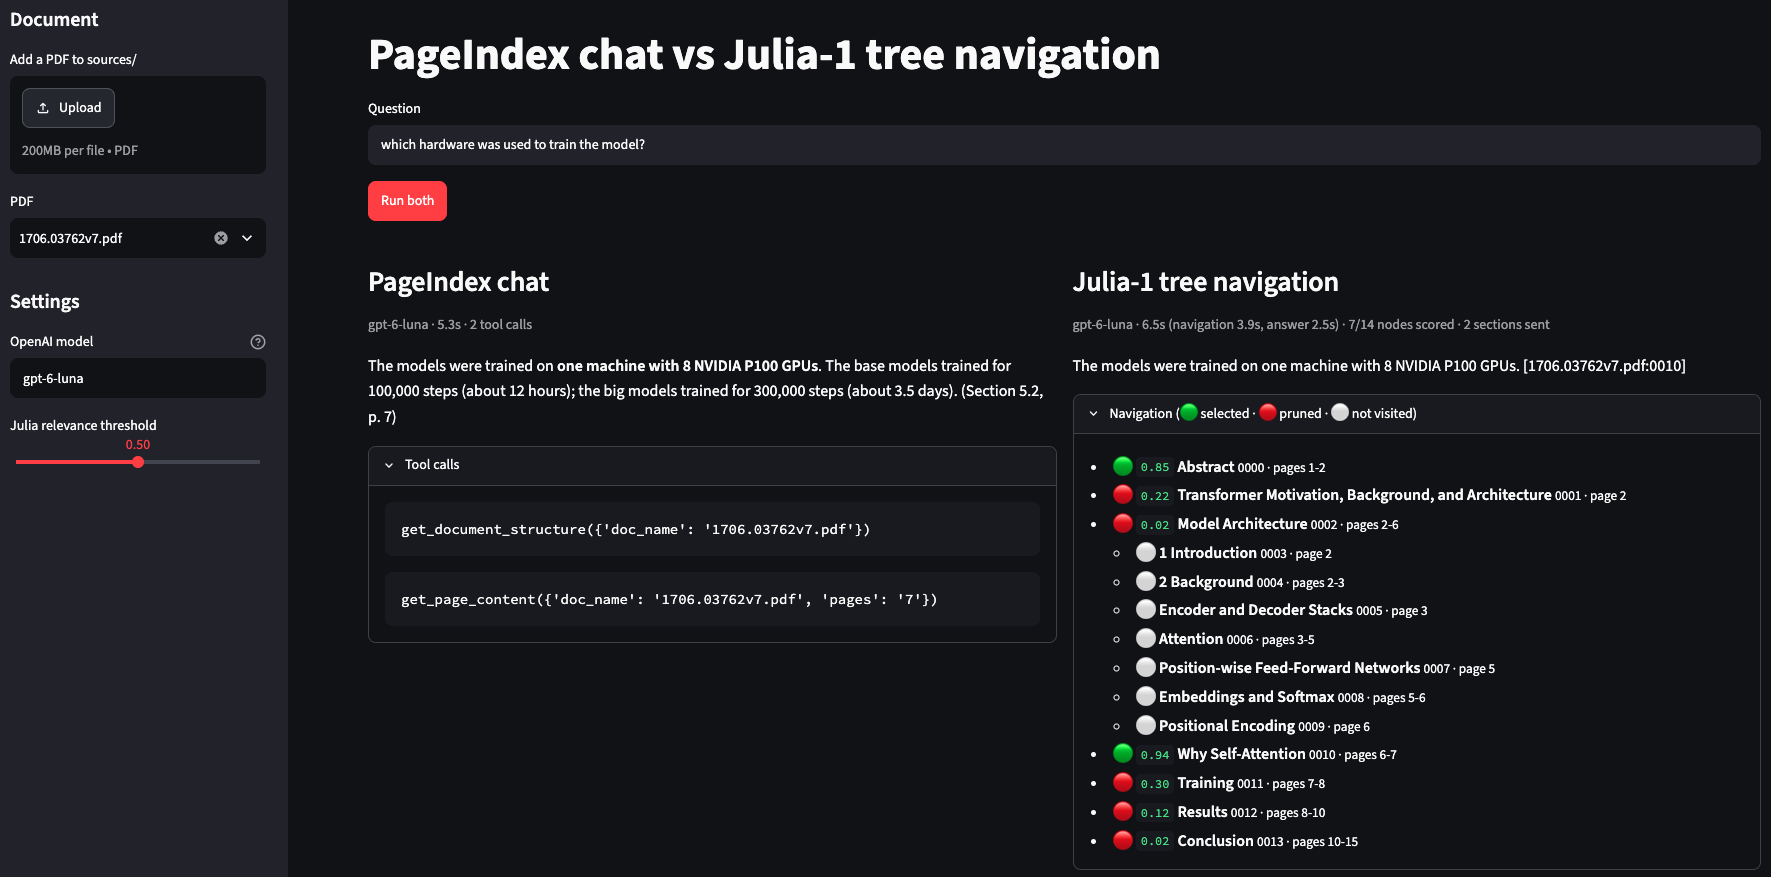
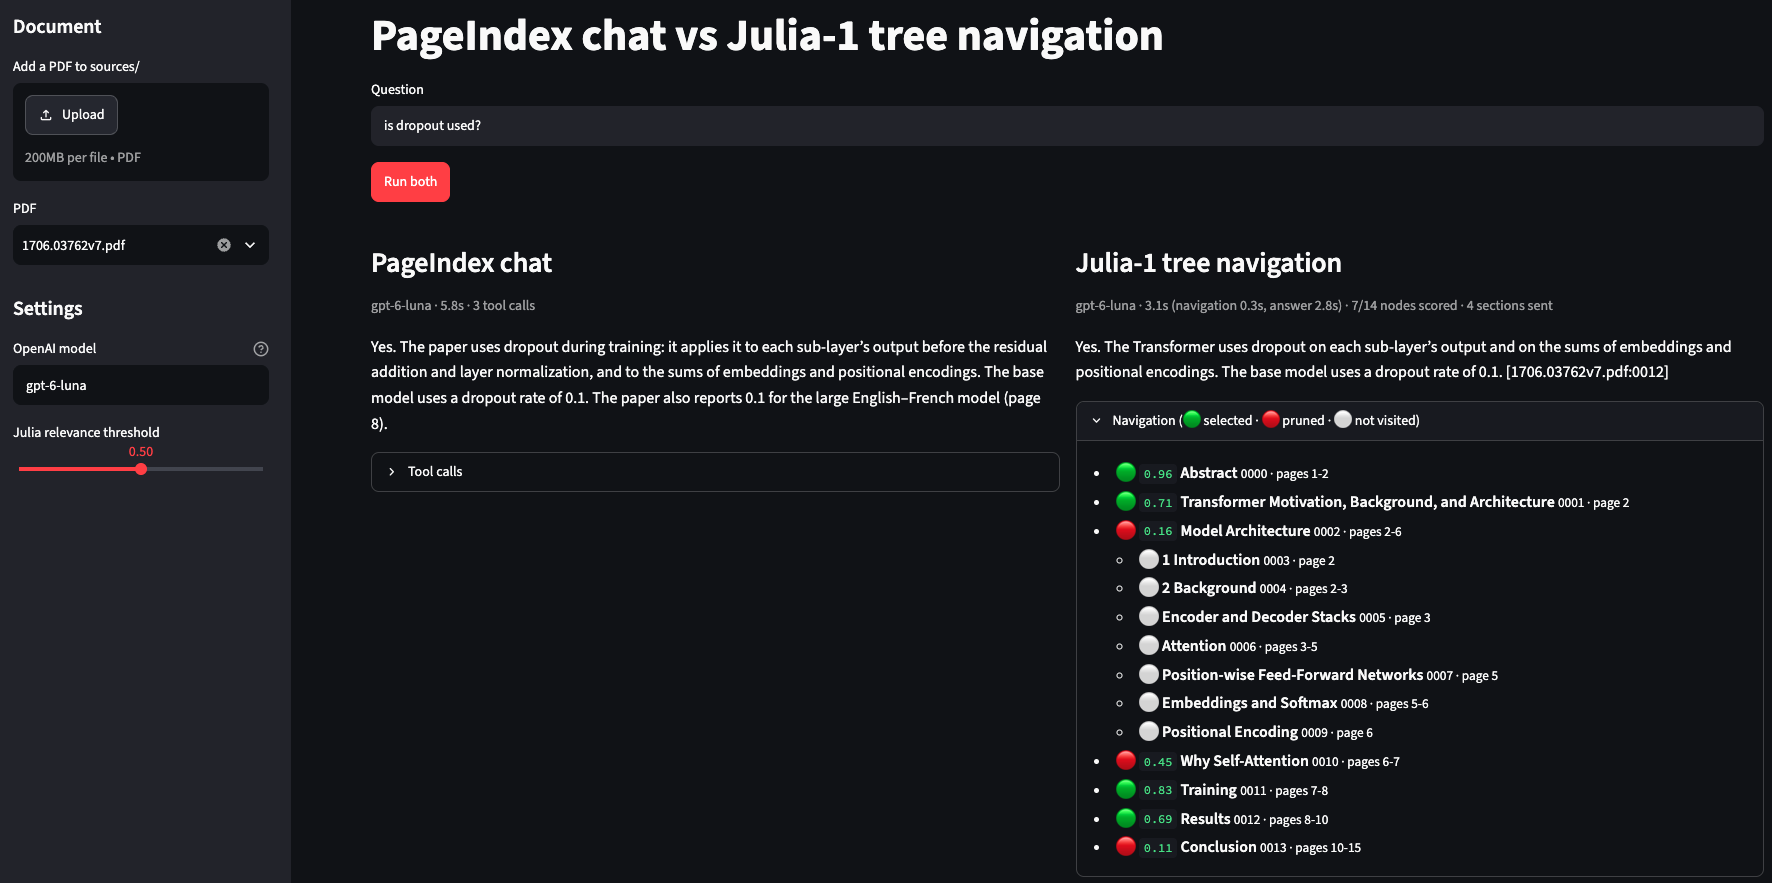
chore: update readme

diff --git a/README.md b/README.md
@@ -8,7 +8,17 @@ This project is inspired by [Jev](https://typesafe.ai/blog/introducing-system-on
 
 **Note: Julia-1 timing is computed on CPU.**
 
-![tinycrag_ui_example](img/tinycrag_ui_example.png)
+Question: *"is dropout used?"* on the "Attention Is All You Need" paper, both columns answered by `gpt-6-luna`.
+
+<p align="center">
+  <img src="img/tinycrag_ui_pageindex.png" width="710" alt="PageIndex chat column: the answer, model, timing and tool-call count">
+</p>
+
+<p align="center">
+  <img src="img/tinycrag_ui_julia.png" width="710" alt="Julia-1 column: the answer and the navigated tree with each section's relevance score">
+</p>
+
+[Full screenshot](img/tinycrag_ui_example.png)
 
 ## Setup
 
